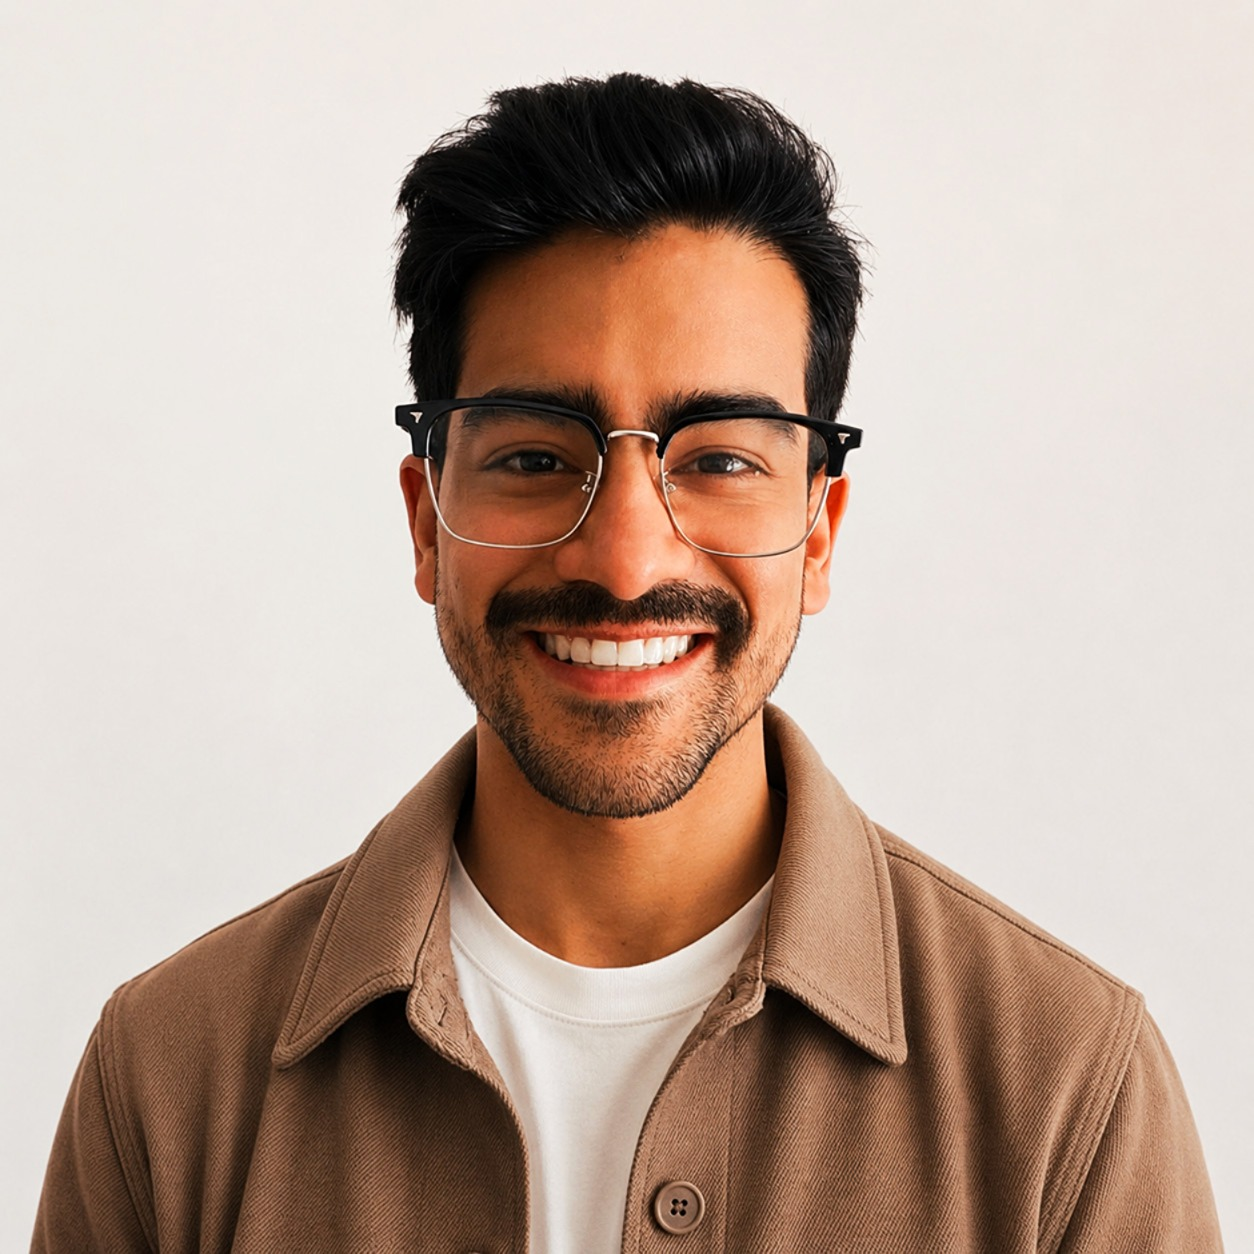
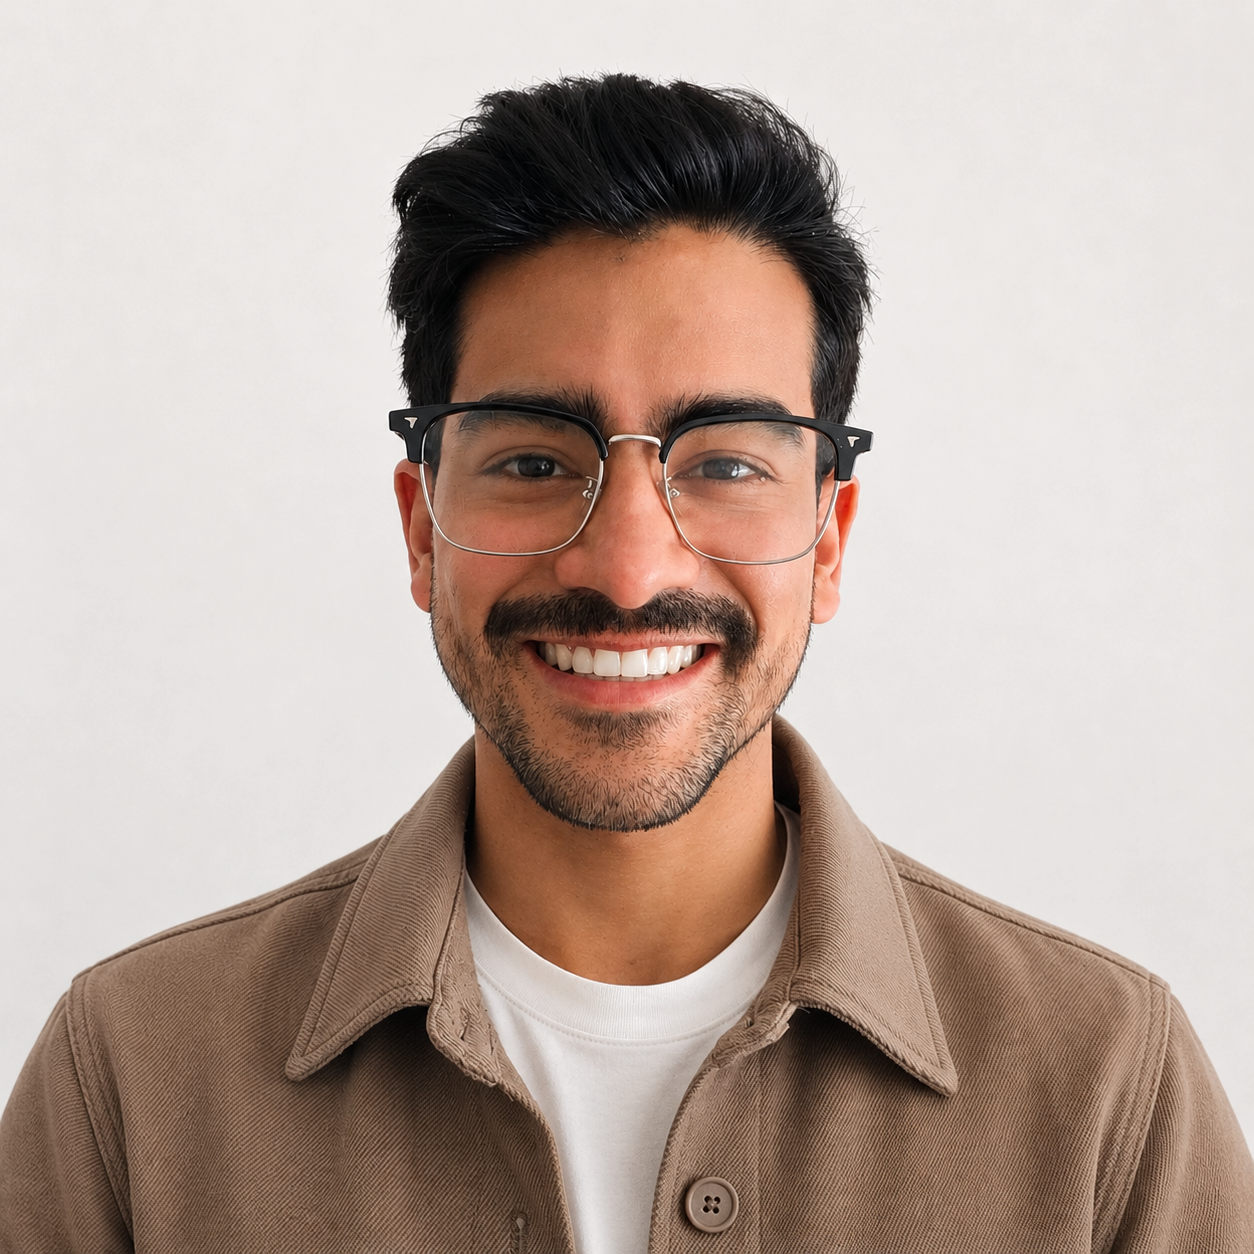
new profile photo and index.html actualizado. 42 student

Changed region(s): [[0.0, 0.0622, 1.0, 1.0]]

diff --git a/index.html b/index.html
@@ -151,7 +151,7 @@
                                 <div class="timeline-title">Encargado Administrativo</div>
                                 <div class="timeline-company">Cibercafé Prove USB</div>
                             </div>
-                            <span class="duration-badge">2 años y 1 mes</span>
+                            <span class="duration-badge">2 años</span>
                         </div>
                         <div class="timeline-meta">
                             <span>01/2017 – 01/2019</span>
